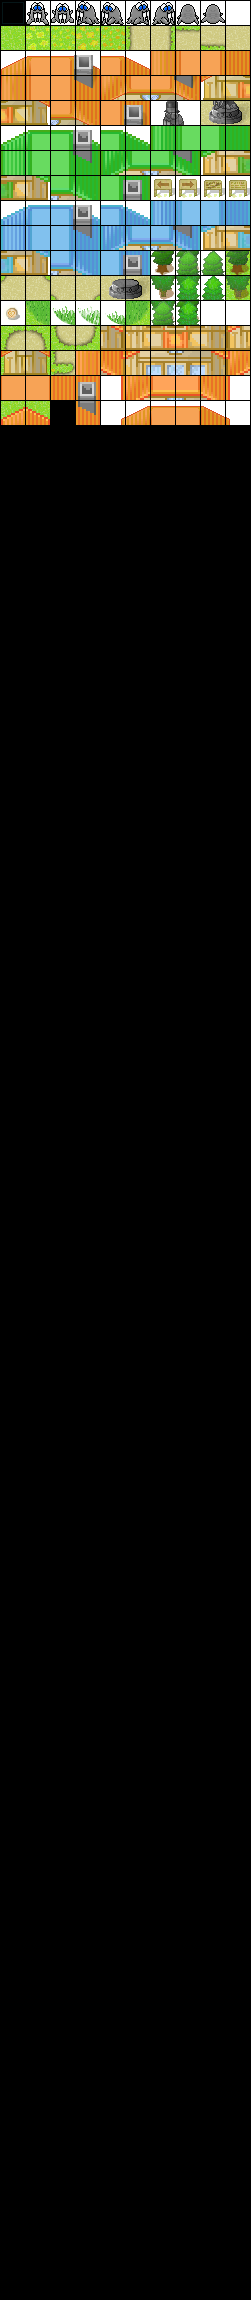
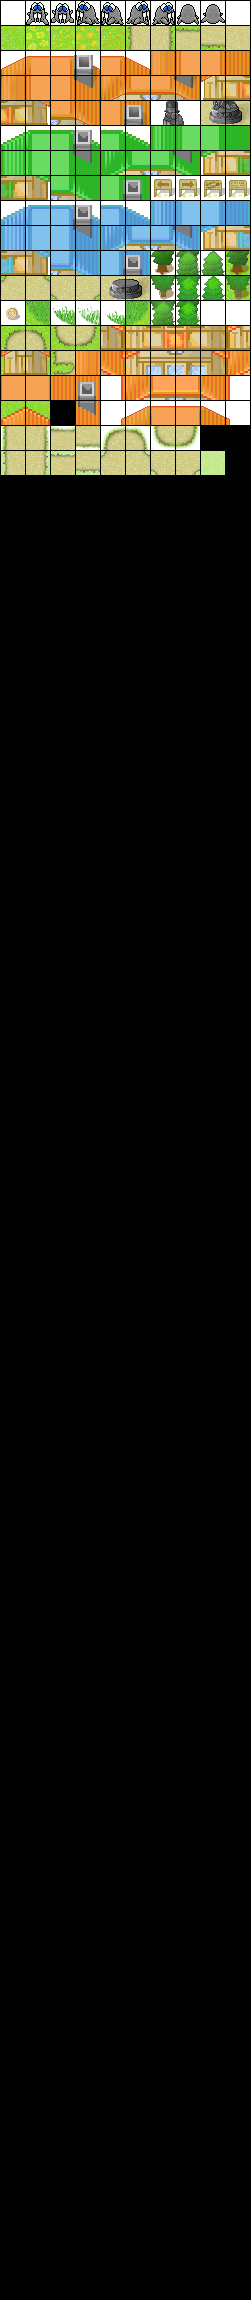
0.3.7 The Menu Bugfix 2
- updated block data definition
- modified key inputs
- fixed major menu bugs
- added new tiles
- added and updated "menu" map data

Changed region(s): [[0.0, 0.1852, 0.8924, 0.2161], [0.0, 0.0, 0.1116, 0.0309]]

diff --git a/Map.java b/Map.java
@@ -171,16 +171,17 @@ public class Map {
 		for(int _i=0;_i<24;_i++) {Map[_i][2] = new long[] { 9, 9, 9, 9, 9, 9, 9, 9, 9, 9, 9, 9, 9, 9, 9, 9, 9, 9, 9, 9, 9, 9, 9, 9}[_i];}
 		for(int _i=0;_i<24;_i++) {Map[_i][3] = new long[] { 9, 9, 9, 9, 9, 9, 9, 9, 9, 9, 9, 9, 9, 9, 9, 9, 9, 9, 9, 9, 9, 9, 9, 9}[_i];}
 		for(int _i=0;_i<24;_i++) {Map[_i][4] = new long[] { 9, 9, 9, 9, 9, 9, 9, 9, 9, 9, 9, 9, 9, 9, 9, 9, 9, 9, 9, 9, 9, 9, 9, 9}[_i];}
-		for(int _i=0;_i<24;_i++) {Map[_i][5] = new long[] { 0, 0, 0, 0, 0, 0, 0, 0, 0, 0, 0, 9, 9, 0, 0, 0, 0, 0, 0, 0, 0, 0, 0, 0}[_i];}
-		for(int _i=0;_i<24;_i++) {Map[_i][6] = new long[] { 0, 0, 0, 0, 0, 0, 0, 0, 0, 0, 0, 9, 9, 0, 0, 0, 0, 0, 0, 0, 0, 0, 0, 0}[_i];}
-		for(int _i=0;_i<24;_i++) {Map[_i][7] = new long[] { 9, 9, 9, 9, 9, 9, 9, 9, 9, 0, 0, 9, 9, 0, 0, 9, 9, 9, 9, 9, 9, 9, 9, 9}[_i];}
-		for(int _i=0;_i<24;_i++) {Map[_i][8] = new long[] { 9, 9, 9, 9, 9, 9, 9, 9, 9, 0, 0, 0, 0, 0, 0, 9, 9, 9, 9, 9, 9, 9, 9, 9}[_i];}
-		for(int _i=0;_i<24;_i++) {Map[_i][9] = new long[] { 0, 0, 0, 0, 0, 0, 0, 0, 0, 0, 0, 9, 9, 0, 0, 0, 0, 0, 0, 0, 0, 0, 0, 0}[_i];}
-		for(int _i=0;_i<24;_i++) {Map[_i][10] = new long[] { 0, 0, 0, 0, 0, 0, 0, 0, 0, 0, 0, 9, 9, 0, 0, 0, 0, 0, 0, 0, 0, 0, 0, 0}[_i];}
-		for(int _i=0;_i<24;_i++) {Map[_i][11] = new long[] { 9, 9, 9, 9, 9, 9, 9, 9, 9, 0, 0, 0, 0, 0, 0, 9, 9, 9, 9, 9, 9, 9, 9, 9}[_i];}
-		for(int _i=0;_i<24;_i++) {Map[_i][12] = new long[] { 9, 9, 9, 9, 9, 9, 9, 9, 9, 0, 0, 9, 9, 0, 0, 9, 9, 9, 9, 9, 9, 9, 9, 9}[_i];}
-		for(int _i=0;_i<24;_i++) {Map[_i][13] = new long[] { 0, 0, 0, 0, 0, 0, 0, 0, 0, 0, 0, 9, 9, 0, 0, 0, 0, 0, 0, 0, 0, 0, 0, 0}[_i];}
-		for(int _i=0;_i<24;_i++) {Map[_i][14] = new long[] { 0, 0, 0, 0, 0, 0, 0, 0, 0, 0, 0, 9, 9, 0, 0, 0, 0, 0, 0, 0, 0, 0, 0, 0}[_i];}
+		for(int _i=0;_i<24;_i++) {Map[_i][5] = new long[] { 172, 172, 172, 172, 172, 172, 172, 172, 172, 172, 175, 9, 9, 174, 172, 172, 172, 172, 172, 172, 172, 172, 172, 172}[_i];}
+		for(int _i=0;_i<24;_i++) {Map[_i][6] = new long[] { 183, 183, 183, 183, 183, 183, 68659, 183, 183, 186, 171, 9, 9, 170, 187, 183, 183, 69560, 183, 183, 183, 183, 183, 183}[_i];}
+		for(int _i=0;_i<24;_i++) {Map[_i][7] = new long[] { 8297, 8297, 8297, 8297, 8297, 8297, 8297, 8297, 8297, 180, 171, 9, 9, 170, 181, 8297, 8297, 8297, 8297, 8297, 8297, 8297, 8297, 8297}[_i];}
+		for(int _i=0;_i<24;_i++) {Map[_i][8] = new long[] { 8297, 8297, 8297, 8297, 8297, 8297, 8297, 8297, 8297, 180, 111, 172, 172, 110, 181, 8297, 8297, 8297, 8297, 8297, 8297, 8297, 8297, 8297}[_i];}
+		for(int _i=0;_i<24;_i++) {Map[_i][9] = new long[] { 182, 182, 182, 182, 182, 182, 182, 182, 182, 184, 19, 41465, 42366, 19, 185, 182, 182, 182, 182, 182, 182, 182, 182, 182}[_i];}
+		for(int _i=0;_i<24;_i++) {Map[_i][10] = new long[] { 183, 183, 183, 183, 183, 183, 68659, 183, 183, 186, 19, 48, 49, 19, 187, 183, 183, 69560, 183, 183, 183, 183, 183, 183}[_i];}
+		for(int _i=0;_i<24;_i++) {Map[_i][11] = new long[] { 8297, 8297, 8297, 8297, 8297, 8297, 8297, 8297, 8297, 180, 113, 173, 173, 112, 181, 8297, 8297, 8297, 8297, 8297, 8297, 8297, 8297, 8297}[_i];}
+		for(int _i=0;_i<24;_i++) {Map[_i][12] = new long[] { 8297, 8297, 8297, 8297, 8297, 8297, 8297, 8297, 8297, 180, 171, 9, 9, 170, 181, 8297, 8297, 8297, 8297, 8297, 8297, 8297, 8297, 8297}[_i];}
+		for(int _i=0;_i<24;_i++) {Map[_i][13] = new long[] { 182, 182, 182, 182, 182, 182, 182, 182, 182, 184, 171, 9, 9, 170, 185, 182, 182, 182, 182, 182, 182, 182, 182, 182}[_i];}
+		for(int _i=0;_i<24;_i++) {Map[_i][14] = new long[] { 173, 173, 173, 173, 173, 173, 68649, 173, 173, 173, 177, 9, 9, 176, 173, 173, 173, 69550, 173, 173, 173, 173, 173, 173}[_i];}
 		for(int _i=0;_i<24;_i++) {Map[_i][15] = new long[] { 9, 9, 9, 9, 9, 9, 9, 9, 9, 9, 9, 9, 9, 9, 9, 9, 9, 9, 9, 9, 9, 9, 9, 9}[_i];}
+
 	}
 }

diff --git a/Menu.java b/Menu.java
@@ -6,6 +6,7 @@ import java.awt.Graphics2D;
 
 public class Menu {
 	public static TileSource menuTileFront = new TileSource("/CodeW/assets/menu_front.png", window.blocksize);
+	public static TileSource menuTileText = new TileSource("/CodeW/assets/menu_text.png", window.blocksize);
 	public static TileSource menuTileBack = new TileSource("/CodeW/assets/menu_back.png", window.blocksize);
 	public static long NextUpdate = System.currentTimeMillis();
 	public static long KeyPause = System.currentTimeMillis()-1;
@@ -24,16 +25,20 @@ public class Menu {
 			Graphics2D g = TileArea.m_image.createGraphics();
 			g.setFont(new Font("Arial", Font.BOLD, 12)); 
 			g.setColor(Color.white);
-			for(int _shiftX=0;_shiftX<1200;_shiftX++) {
-				TileArea.drawTile(menuTileBack, 0, 0, _shiftX, 0, 576+_shiftX, 384);	// add foreground layer (screenPos, SourcePos, SourceDim)
-				TileArea.drawTile(menuTileFront, 0, 0, 0, 0, 576, 381);	// add foreground layer (screenPos, SourcePos, SourceDim)
+			int _shiftX = 0;	// so it actualy does a perfect loop no matter what zoom option. else it adds a break after finishing each round
+			for(int _shiftXcounter=0;_shiftX<1200;_shiftXcounter++) {
+				_shiftX = General.getBetween(1,  (long) _shiftXcounter*(1200*(Screen.getZoomX()/24))/1200, 1200);
+				TileArea.drawTile(menuTileBack, 0, 0, _shiftX, 0, 576, 384, "abc");	// add foreground layer (screenPos, SourcePos, SourceDim)
+				Screen.renderBackground(true);
+				TileArea.drawTile(menuTileText, 0, 0, 0, 0, 576, 384);	// add foreground layer (screenPos, SourcePos, SourceDim)
 				Screen.PlayerTile = Player.getCurrentTile()+Player.TileChangeWhileWalking;
-				TileArea.drawTile(Screen.tiles, TileSource.getXPos(Screen.PlayerTile), TileSource.getYPos(Screen.PlayerTile), window.blocksize*Player.getXPos(), General.getMax(window.blocksize*Player.getYPos()-Math.round(Screen.getZoom()/4), 0));		// render char
+				TileArea.drawTile(Screen.tiles, TileSource.getXPos(Screen.PlayerTile), TileSource.getYPos(Screen.PlayerTile), window.blocksize*Player.getXPos(), General.getMax(window.blocksize*Player.getYPos()-6, 0));		// render char
+				Screen.renderForeground(true);
 
 				window.window.repaint();
 			   	
 				
-			   	NextUpdate = System.currentTimeMillis()+20;
+			   	NextUpdate = System.currentTimeMillis()+10;
 				System.out.println(_shiftX);
 			   	while (System.currentTimeMillis()<NextUpdate) {
 				   	General.sleep(1);

diff --git a/General.java b/General.java
@@ -30,6 +30,13 @@ public class General {
 			return _b;
 		}
 	}
+	public static int getMin(long _a, long _b) {
+		if(_a<_b) {
+			return (int) _a;
+		} else {
+			return (int) _b;
+		}
+	}
 	public static int getMin(int[] _a) {
 		int _max = 999999;
 		for(int i=0;i<_a.length;i++) {
@@ -41,6 +48,10 @@ public class General {
 	}
 	public static int getBetween(int _min, int _x, int _max) {
 		int _ans = getMax(_min, getMin(_max, _x));
+		return _ans;
+	}
+	public static int getBetween(int _min, long _x, int _max) {
+		int _ans = getMax(_min, (int) getMin((long) _max, _x));
 		return _ans;
 	}
 	public static void sleep(int _i) {

diff --git a/window.java b/window.java
@@ -147,8 +147,8 @@ public class window {
 		Block.AddNew(73, "house", true, 73, 7);
 		Block.AddNew(74, "house", true, 74, 7);
 		Block.AddNew(75, "house", true, 75, 7);
-		Block.AddNew(76, "sign", true, 76, 10);
-		Block.AddNew(77, "sign", true, 77, 10);
+		Block.AddNew(76, "sign", false, 76, 10);	// arrow signs NOT solid. Only text-signs are
+		Block.AddNew(77, "sign", false, 77, 10);
 		Block.AddNew(78, "sign", true, 78, 10);
 		Block.AddNew(79, "sign", true, 79, 10);
 		Block.AddNew(80, "house", false, 80, 7);

diff --git a/Player.java b/Player.java
@@ -91,6 +91,7 @@ public class Player {
 	}
 	public static void go(String _dir) {
 		long nextStep = System.currentTimeMillis()+StepDuration;
+		Menu.KeyPause = System.currentTimeMillis()+Player.StepDuration/2;
 		Player.setTileChangeWhileWalking();
 		turn(_dir);
 		if (!checkPath(_dir)) {

diff --git a/Screen.java b/Screen.java
@@ -166,6 +166,9 @@ public class Screen {
 		int zoomY = ((window.getHeight())/Screen.getHeight());
 		return General.getMin(zoomX,  zoomY);
 	}
+	public static int getZoomX() {
+		return (window.getWidth()/Screen.getWidth());
+	}
 	public static void scrollX() {
 		
 	}
